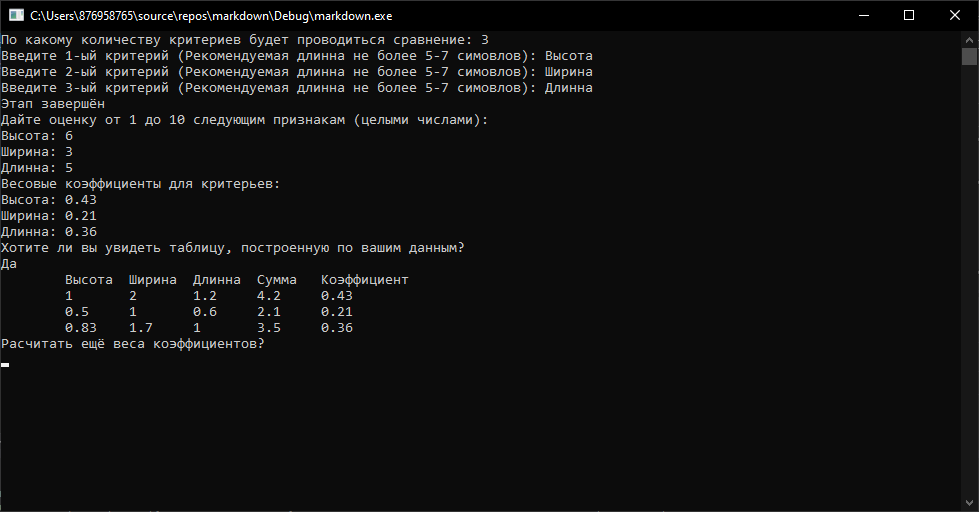
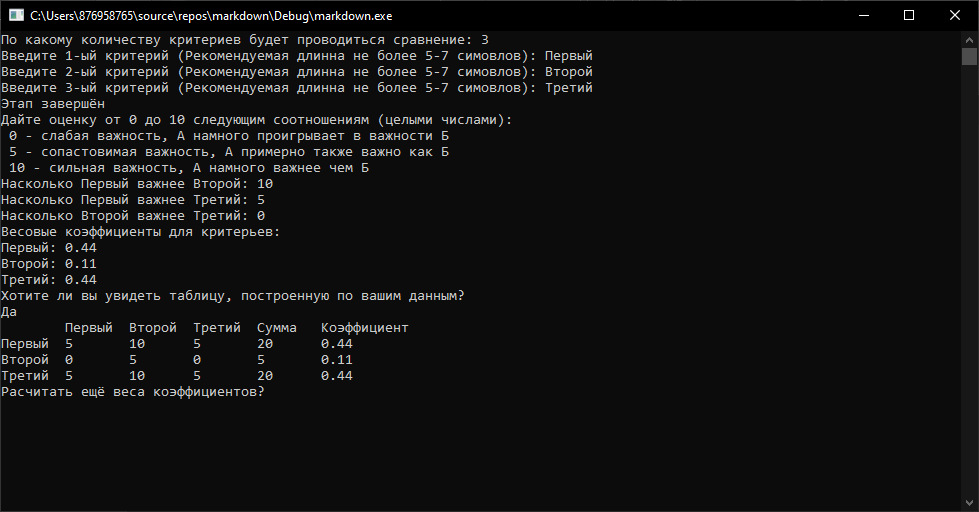
Версия 4
Правки по ТЗ

Changed region(s): [[0.0, 0.2188, 0.5209, 0.7812], [0.5516, 0.0938, 0.6129, 0.1875]]

diff --git a/README.md b/README.md
@@ -6,15 +6,15 @@
 Программа принимает на вход:
 - Количество критериев (целое неотрицательное число)
 - Название критериев (Строки предпочтительная длинна, которых не превышает 5-7 символов)
-- Оценку критериев (Целые неотрицательные числа от 1 до 10)
+- Оценку критериев относительно друг друга (Целые неотрицательные числа от 0 до 10)
 
 
 Программа выводит:
 - Вес коэффициентов (Дробное число с 2 цифрами полсе запятой)
 - Таблица содержащая
     - Название критериев (строки)
-    - Оценка критериев относительно друг друга (Дробные числа с 2 цифрами полсе запятой)
-    - Сумма оценок критериев по строкам (Дробные числа с 2 цифрами полсе запятой)
+    - Оценка критериев относительно друг друга (Целые неотрицательные числа от 0 до 10)
+    - Сумма оценок критериев по строкам (Целые неотрицательные числа)
     - Веса коэффициентов (Дробные числа с 2 цифрами полсе запятой)
 
 ## Скриншот работы
